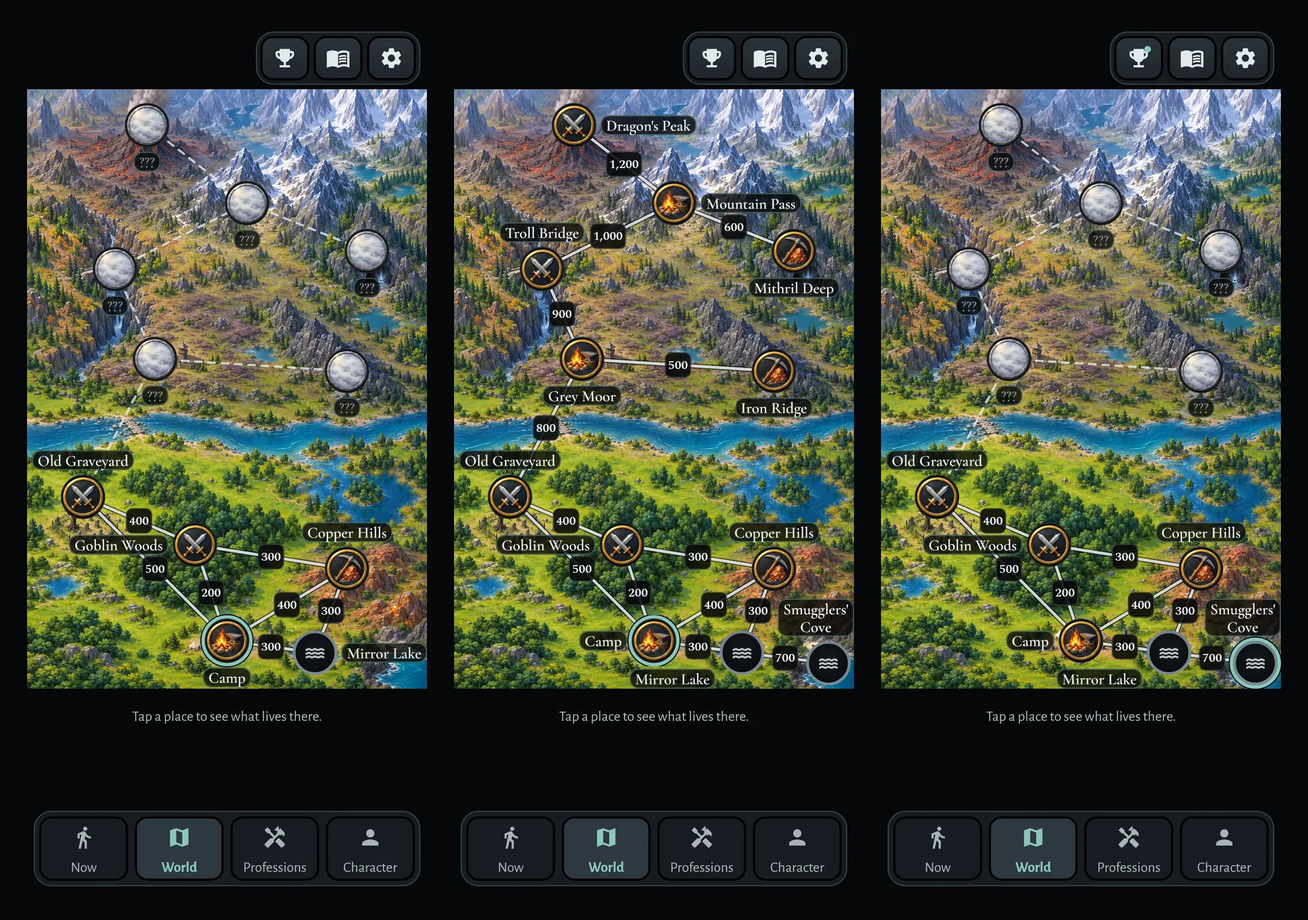
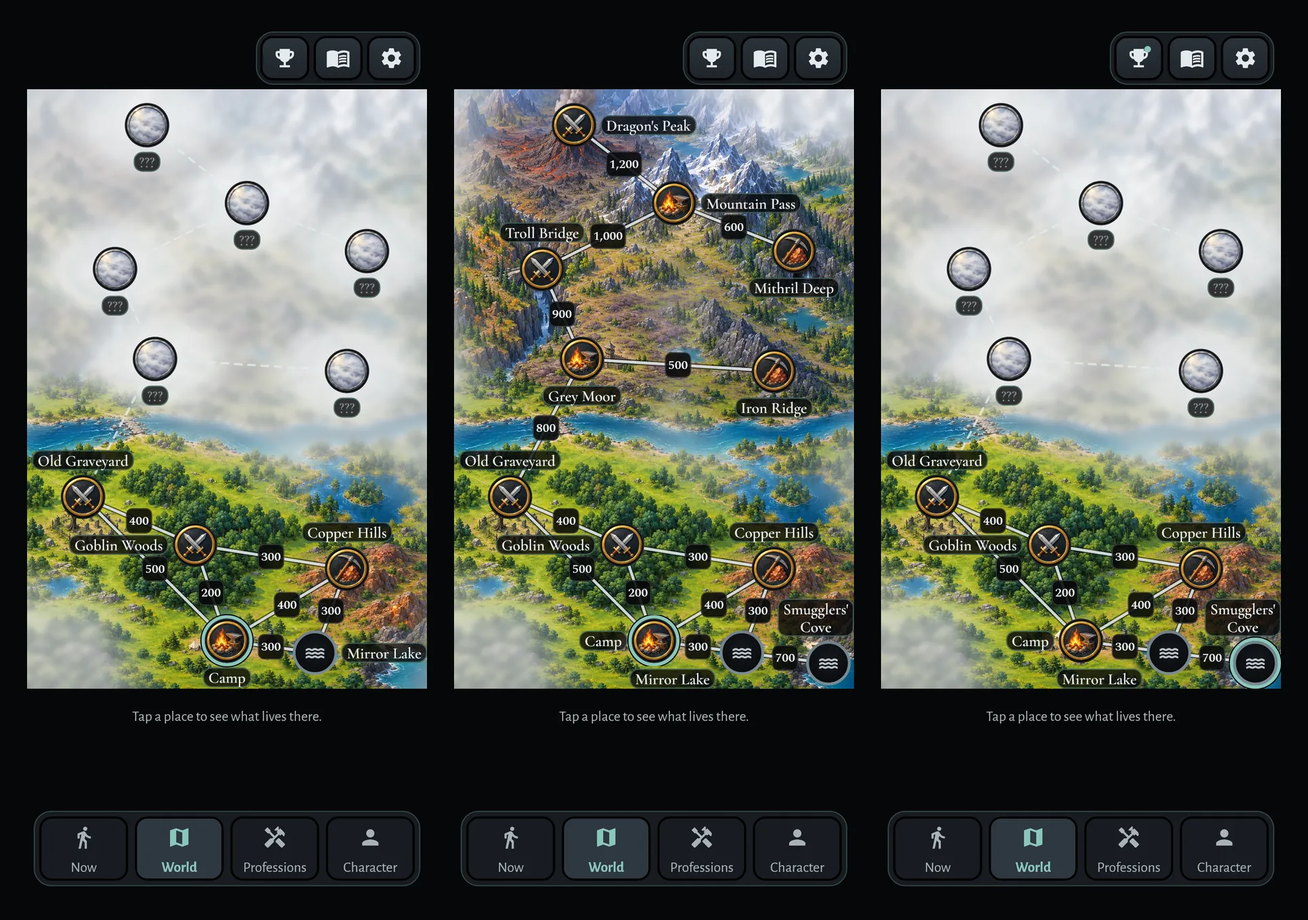
Plan 0017: the design doc shows the painted fog
The World board of M3 now shows the map with the fog of the design phones,
and the note on the fog says that the map paints it. nabriis asked for the
fog; it keeps its rules (spec 0014 section 4.2).

diff --git a/docs/design/0017-quiet-teal-ui.md b/docs/design/0017-quiet-teal-ui.md
@@ -74,7 +74,9 @@ Notes:
   in its card, so its names are about 12 dp high on a phone of 360 dp.
 - With Smugglers' Cove revealed, the only free spot for the name "Mirror Lake" is under Camp. It keeps the rules, but
   it can read as the name of Camp.
-- The map shows no painted fog, unlike the design phones: spec 0014 §4.2 keeps the fog as today.
+- The map paints fog, as the design phones do: a soft veil over the land past the explored places, with a clear hole
+  around each explored place and a cloud on each place in the fog. The fog markers, "???" and the dashed roads stay as
+  today (spec 0014 §4.2). The route map has no fog.
 - These renders come before M4, so the banners and the earned achievements keep their earlier look.
 
 ## Seen in the renders, outside plan 0017
